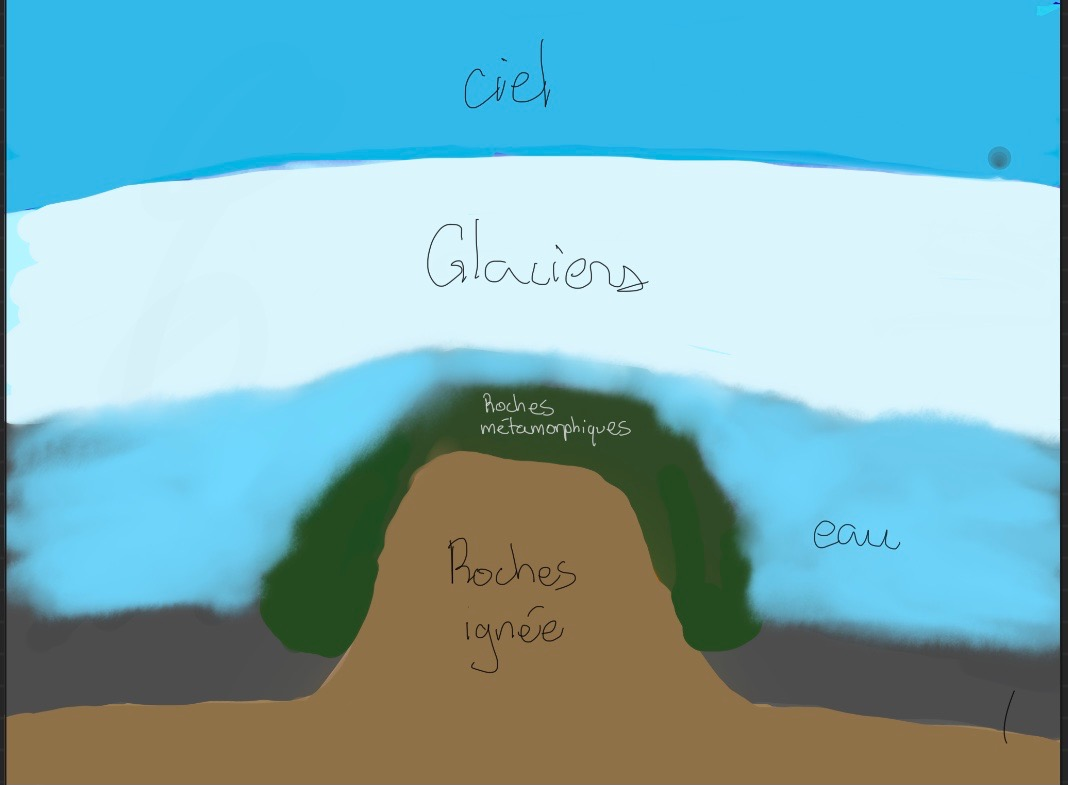
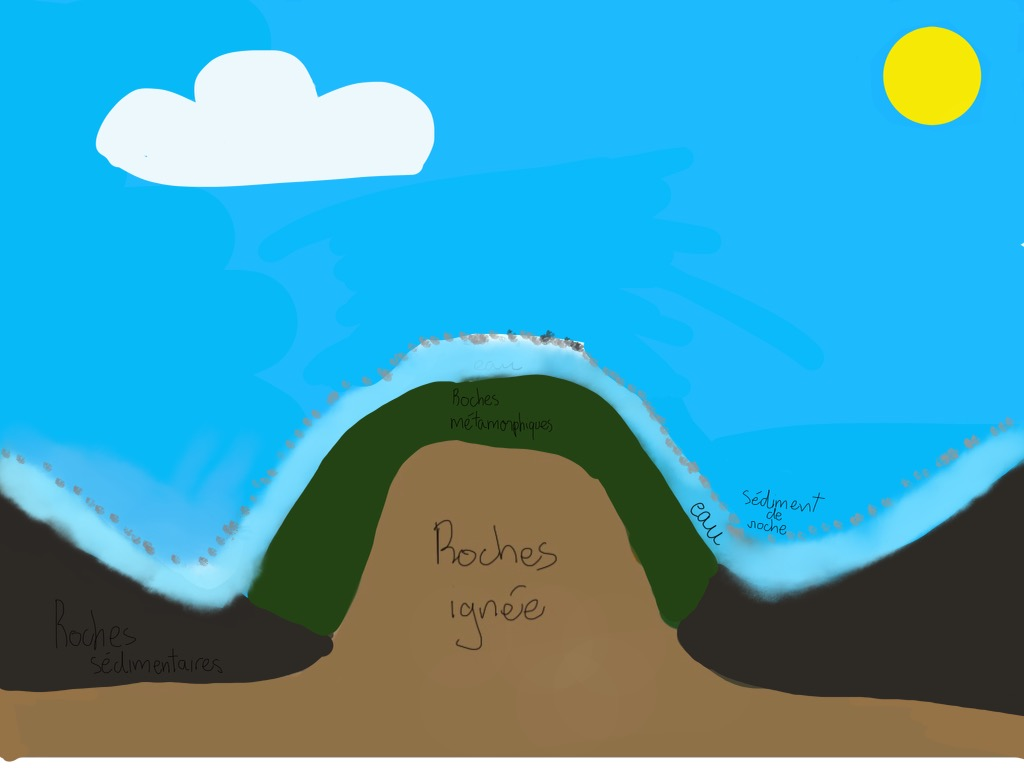
Finish Formation

diff --git a/geologie.html b/geologie.html
@@ -22,7 +22,9 @@
     <body class="bg-dark">
         <nav class="navbar navbar-expand-lg navbar-dark bg-dark">
             <div class="container-fluid">
-                <a class="navbar-brand text-white" href="index.html">Mont Mégantic</a>
+                <a class="navbar-brand text-white" href="index.html"
+                    >Mont Mégantic</a
+                >
                 <button
                     class="navbar-toggler"
                     type="button"
@@ -46,7 +48,9 @@
                         </li>
 
                         <li class="nav-item">
-                            <a class="nav-link text-white" href="geologie.html">Géologie</a>
+                            <a class="nav-link text-white" href="geologie.html"
+                                >Géologie</a
+                            >
                         </li>
 
                         <li class="nav-item">
@@ -73,42 +77,62 @@
         <div class="title">
             <img src="images/title.jpg" class="title-img" />
             <div class="title-box bg-dark">
-                <h1 class="title-text">Mont Mégantic</h1>
+                <h1 class="title-text">Géologie</h1>
             </div>
         </div>
 
-        <div class="text-section bg-dark">
-            <div class="text-box">
-                <p class="text-area text-white">
-                    Le Mont Mégantic est une montérégienne qui se situe en
-                    Estrie, au Québec. Elle a une attitude de 1 105 m. C’est la
-                    montagne centrale du Massif du Mont Mégantic qui se compose
-                    du mont Victoria, les montagnes de Franceville, la montagne
-                    Noire, le Pain de Sucre, la montagne des Cohoes, le mont
-                    Notre-Dame et le mont Saint-Joseph. Elle date de la période
-                    Crétacé.
-                </p>
+        <div class="roches row">
+            <div class="card bg-dark col-md-4">
+                <img
+                    src="images/granite.jpg"
+                    class="card-img-top granite"
+                    alt="..."
+                />
+                <div class="card-body">
+                    <h5 class="card-title text-white">Granite</h5>
+                    <p class="card-text text-white">
+                        Le granite est une roche ignée intrusive. Elle résulte
+                        du magma qui refroidit lentement et entièrement à
+                        l'intérieur de la Terre et elle est composée de trois
+                        minéraux.
+                    </p>
+                </div>
             </div>
-        </div>
-        <img src="images/text.png" class="text-img"></img>
-        <div class="observatoire bg-dark">
-            <div class="observatoire-div">
-                <h2 class="observatoire-text text-white">
-                    L’observatoire de Mont Mégantic se trouve au sommet de la
-                    montagne. elle est inauguré en 1978 et situé à 1100 mètres
-                    d’altitude.
-                </h2>
+
+            <div class="card bg-dark col-md-6" style="width: 33%">
+                <img
+                    src="images/gabbro.jpg"
+                    class="card-img-top gabbro"
+                    alt="..."
+                />
+                <div class="card-body">
+                    <h5 class="card-title text-white">Gabbro</h5>
+                    <p class="card-text text-white">
+                        Le gabbro est une roche ignée intrusive. Elle résulte du
+                        magma qui refroidit lentement et entièrement à
+                        l'intérieur de la Terre et elle est composée de trois
+                        minéraux.
+                    </p>
+                </div>
+            </div>
+
+            <div class="card bg-dark col-md-4">
+                <img
+                    src="images/syenite.jpg"
+                    class="card-img-top granite"
+                    alt="..."
+                />
+                <div class="card-body">
+                    <h5 class="card-title text-white">Syénite</h5>
+                    <p class="card-text text-white">
+                        La syénite est une roche ignée. Elle résulte du magma
+                        qui refroidit à l'intérieur de la Terre et elle est
+                        composée de trois minéraux.
+                    </p>
+                </div>
             </div>
         </div>
 
-        <div class="container bg-dark img-div">
-            <div class="row">
-                <img class="img col-md-6 img-1" src="images/img-1.jpg" />
-                <img class="img col-md-6 img-2" src="images/img-2.jpg" />
-                <img class="img col-md-6 img-3" src="images/img-3.jpg" />
-                <img class="img col-md-6 img-4" src="images/img-4.jpg" />
-            </div>
-        </div>
         <footer>
             <h2>Ruixi Zhang, Émile Drainville</h2>
             <p class="text-muted">© 2020 Ruixi Zhang Émile Drainville</p>

diff --git a/formation.html b/formation.html
@@ -48,7 +48,9 @@
                         </li>
 
                         <li class="nav-item">
-                            <a class="nav-link text-white" href="#">Géologie</a>
+                            <a class="nav-link text-white" href="geologie.html"
+                                >Géologie</a
+                            >
                         </li>
 
                         <li class="nav-item">
@@ -93,10 +95,12 @@
                 <img src="images/item-2.jpg" class="card-img-top" alt="..." />
                 <div class="card-body">
                     <h5 class="card-title text-white fw-bold">
-                        Remonté du magma
+                        Intrusion du magma
                     </h5>
                     <p class="card-text text-white">
-                        Remonté du magma dans les roches sédimentaires
+                        Remonté du magma provenant d’un point chaud jusqu’aux
+                        roches sédimentaires pour ainsi former un dôme puisque
+                        tout remonte.
                     </p>
                 </div>
             </div>
@@ -107,8 +111,9 @@
                         Création des roches métamorphiques
                     </h5>
                     <p class="card-text text-white">
-                        Au contact des roches sédimentaires et du magma il y
-                        création des roches métamorphiques
+                        Au contact des roches sédimentaires et de la chaleur et
+                        pression du magma, il y création des roches
+                        métamorphiques.
                     </p>
                 </div>
             </div>
@@ -117,7 +122,9 @@
                 <div class="card-body">
                     <h5 class="card-title text-white fw-bold">Glaciation</h5>
                     <p class="card-text text-white">
-                        Le magma se refroidit et devient de la roche ignée
+                        Il y a une période de glaciation. Cela provoque le
+                        refroidissement du magma et il devient de la roche ignée
+                        intrusive ou extrusives.
                     </p>
                 </div>
             </div>
@@ -126,8 +133,11 @@
                 <div class="card-body">
                     <h5 class="card-title text-white fw-bold">Érosion</h5>
                     <p class="card-text text-white">
-                        Les glaciers retirent une partie des roches
-                        sédimentaires laissant la colline au niveau du sol
+                        Les glaciers fondent et se déplacent. Ils retirent une
+                        partie des roches sédimentaires et de la roche ignée,
+                        sans pouvoir arracher la roche métamorphique autant
+                        pusiqu’elle est moins friable, laissant la colline au
+                        niveau du sol.
                     </p>
                 </div>
             </div>
@@ -136,7 +146,8 @@
                 <div class="card-body">
                     <h5 class="card-title text-white fw-bold">Dépression</h5>
                     <p class="card-text text-white">
-                        Crée un creux dans la montagne. De la végétation (moraine) s’installe sur la montagne
+                        Crée un creux dans la montagne. De la
+                        végétation s’installe sur la montagne
                     </p>
                 </div>
             </div>

diff --git a/faune.html b/faune.html
@@ -48,7 +48,7 @@
                         </li>
 
                         <li class="nav-item">
-                            <a class="nav-link text-white" href="#">Géologie</a>
+                            <a class="nav-link text-white" href="geologie.html">Géologie</a>
                         </li>
 
                         <li class="nav-item">

diff --git a/style.css b/style.css
@@ -151,3 +151,7 @@ footer {
 .item img {
     width: 100%;
 }
+
+.roches div {
+    margin: 0, auto;
+}
